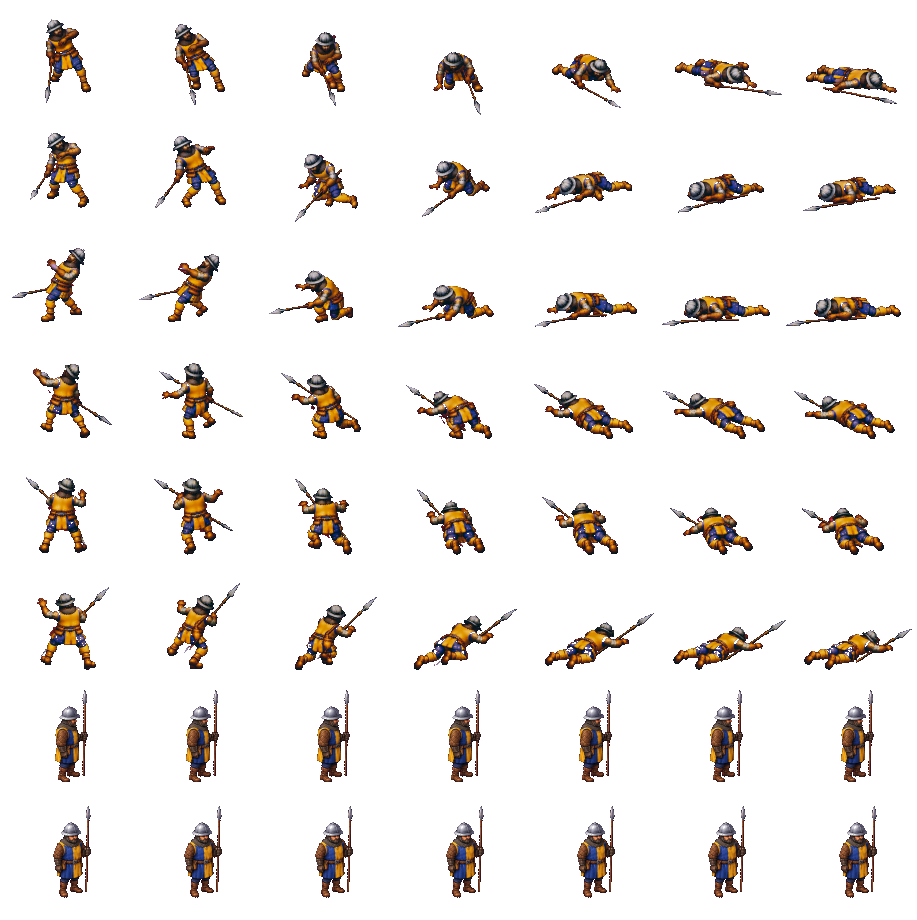
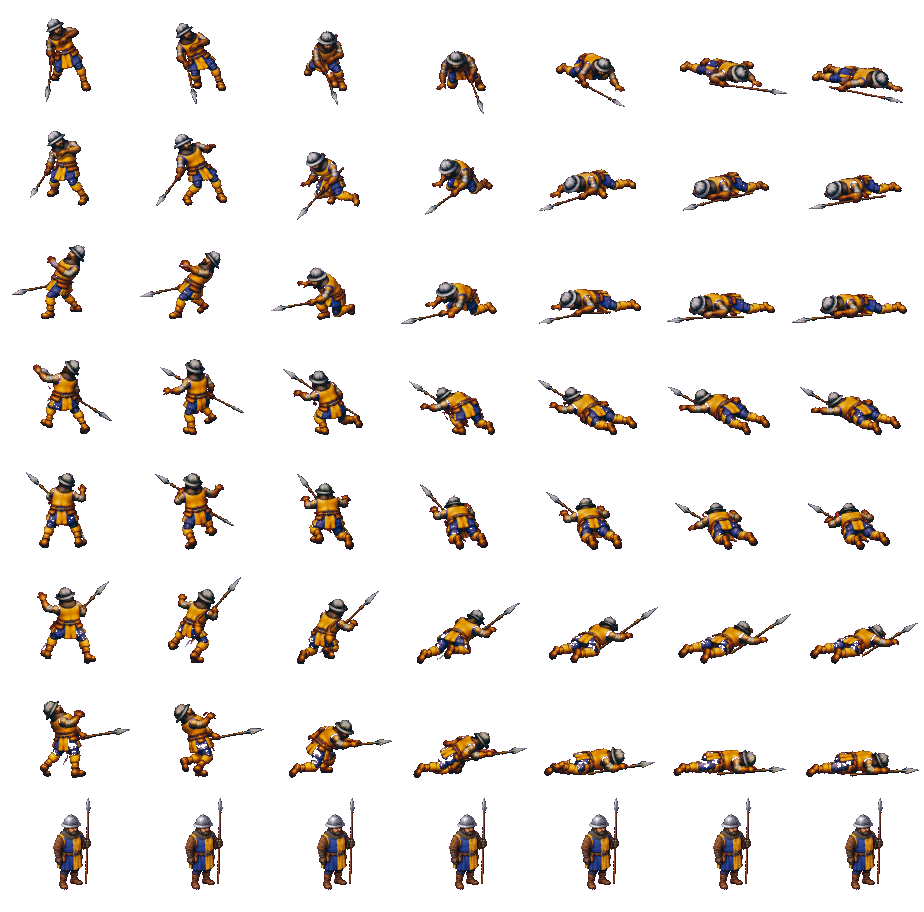
Vallen O van de speerman
Vel 24 was goed: door de klap achterover en dan voorover naar rechts, de speer naast hem. De rest blijft pixel voor
pixel hetzelfde.

diff --git a/beelden/beschrijving.js b/beelden/beschrijving.js
@@ -613,12 +613,12 @@
        "fps": 8,
        "herhaal": false,
        "cel": [
-        131,
-        115
+        132,
+        114
        ],
        "anker": [
         64,
-        92
+        91
        ]
       }
      }

diff --git a/ontwerp/werklijst.md b/ontwerp/werklijst.md
@@ -32,7 +32,7 @@ de pijplijn van vraag 180 (Q, f; niet in de cloud). **Bezig in sessie `lokaal-da
 **nieuwe weg** (Marcel, 21 okt: "Ok, dan zullen we moeten inventariseren welke gebouwen en poppetjes we nodig hebben. Dan
 kunnen we de andere generator deze 1 voor 1 laten maken. Jij moet dan zorgen dat ze passend worden in het spel"): de
 generator van zijn plaat maakt de bron, wij maken het passend; eerst de inventaris (`beelden-van-de-generator.md`). De
-speerman staat en loopt in het spel in acht richtingen (21 okt, de masterprompt); de aanval in alle acht richtingen en vallen Z, ZW, W, NW (voorlopig), N en NO staan erin; **wacht op Marcel**: vel 24 en 25 (vallen) (in
+speerman staat en loopt in het spel in acht richtingen (21 okt, de masterprompt); de aanval in alle acht richtingen en vallen Z, ZW, W, NW (voorlopig), N, NO en O staan erin; **wacht op Marcel**: vel 25 (vallen ZO) (in
 het nieuwe gesprek, `beelden-van-de-generator.md`), en eventueel 3 en 4 opnieuw (de punt naar achteren).
 
 **Marcels acht punten van 20 okt** (R, vraag 182 tot 189: egaliseren met de schop, de maat van de huizen, dragers, een

diff --git a/ontwerp/beelden-van-de-generator.md b/ontwerp/beelden-van-de-generator.md
@@ -344,7 +344,8 @@ generator van 1,7 MB; op spelmaat is het verschil ruis) en lopen in het spel. Wa
   20% te groot werd; een aanval of val neemt nu de kleinste van de twee maten (hoogte en helm), zodat hij nooit hoger
   wordt dan de staande man. Dat maakte ook aanvallen N, NO, O en ZO en vallen ZW, W en NW iets kleiner.
 - **Vel 23, vallen NO** (22 okt): goed, van achteren voorover naar rechtsboven; weer een puntje achteraan de speer (beeld
-  1 tot 4) en rode vlekjes. Bij N (vel 14), van achteren, speelt hetzelfde: dan de punt
+  1 tot 4) en rode vlekjes.
+- **Vel 24, vallen O** (22 okt): goed, door de klap achterover en dan voorover naar rechts (gespiegeld aan W). Bij N (vel 14), van achteren, speelt hetzelfde: dan de punt
   omhoog, van de kijker af.
 
 ## De inventaris
